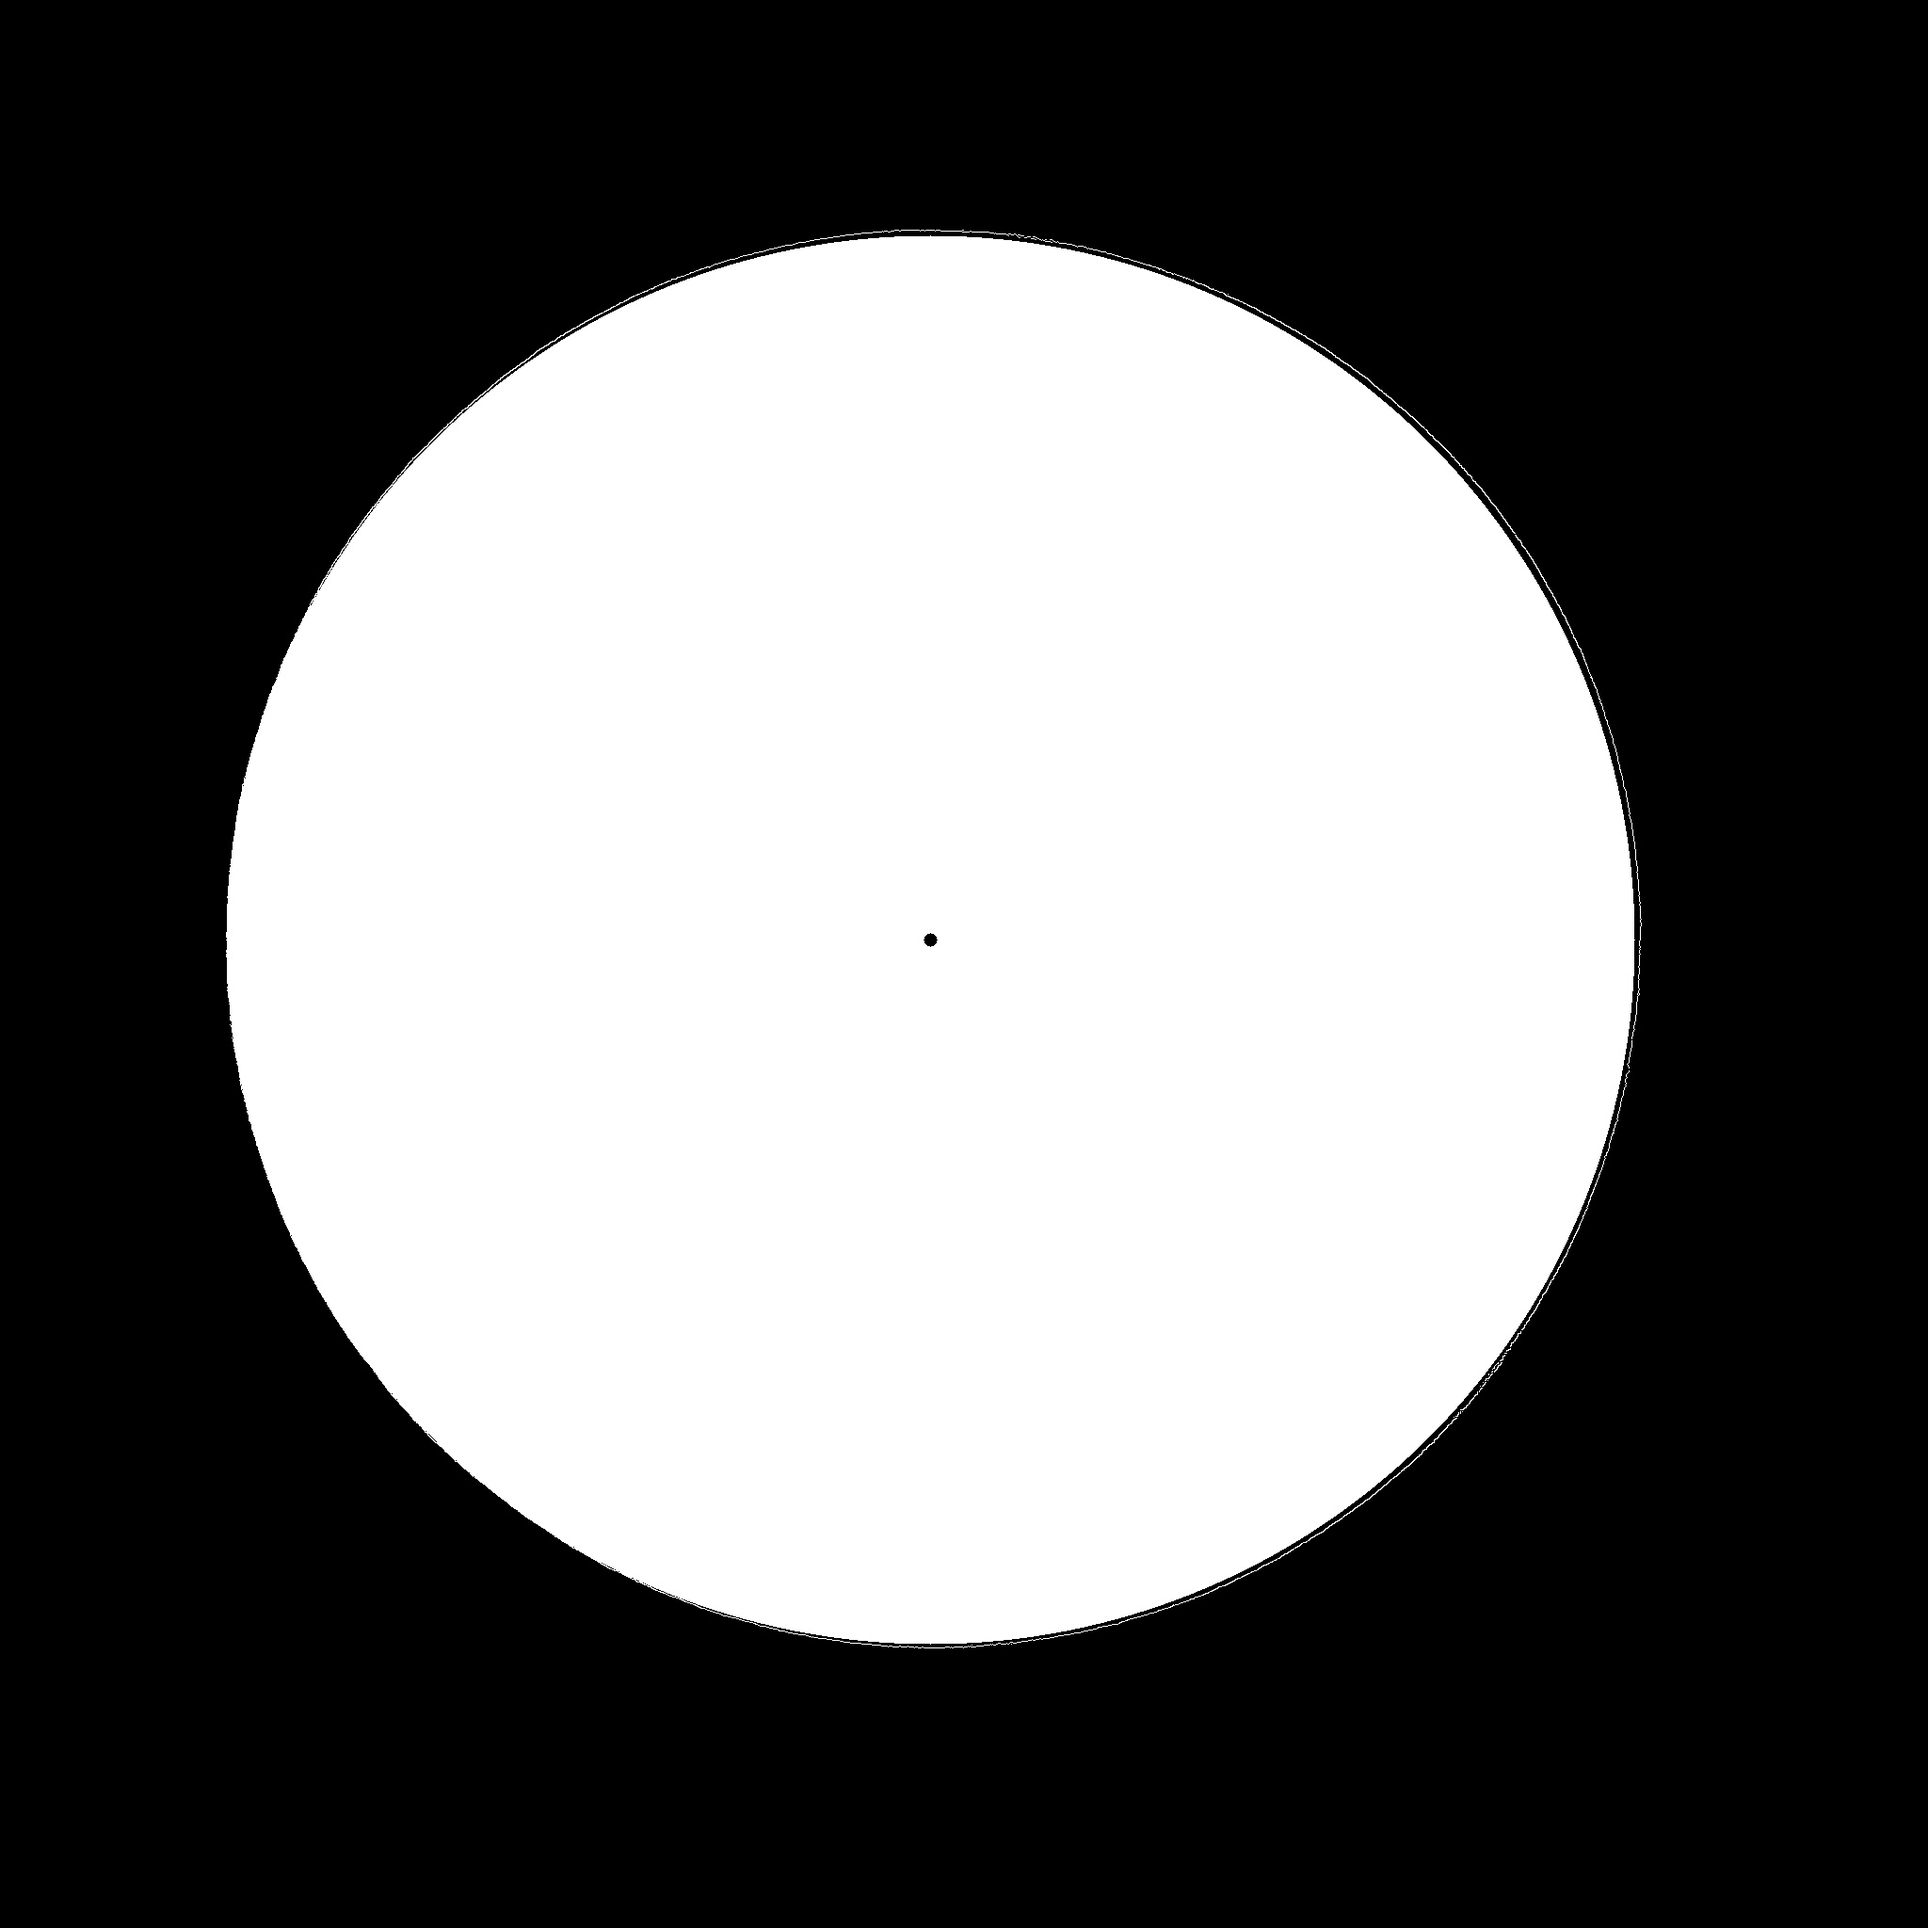
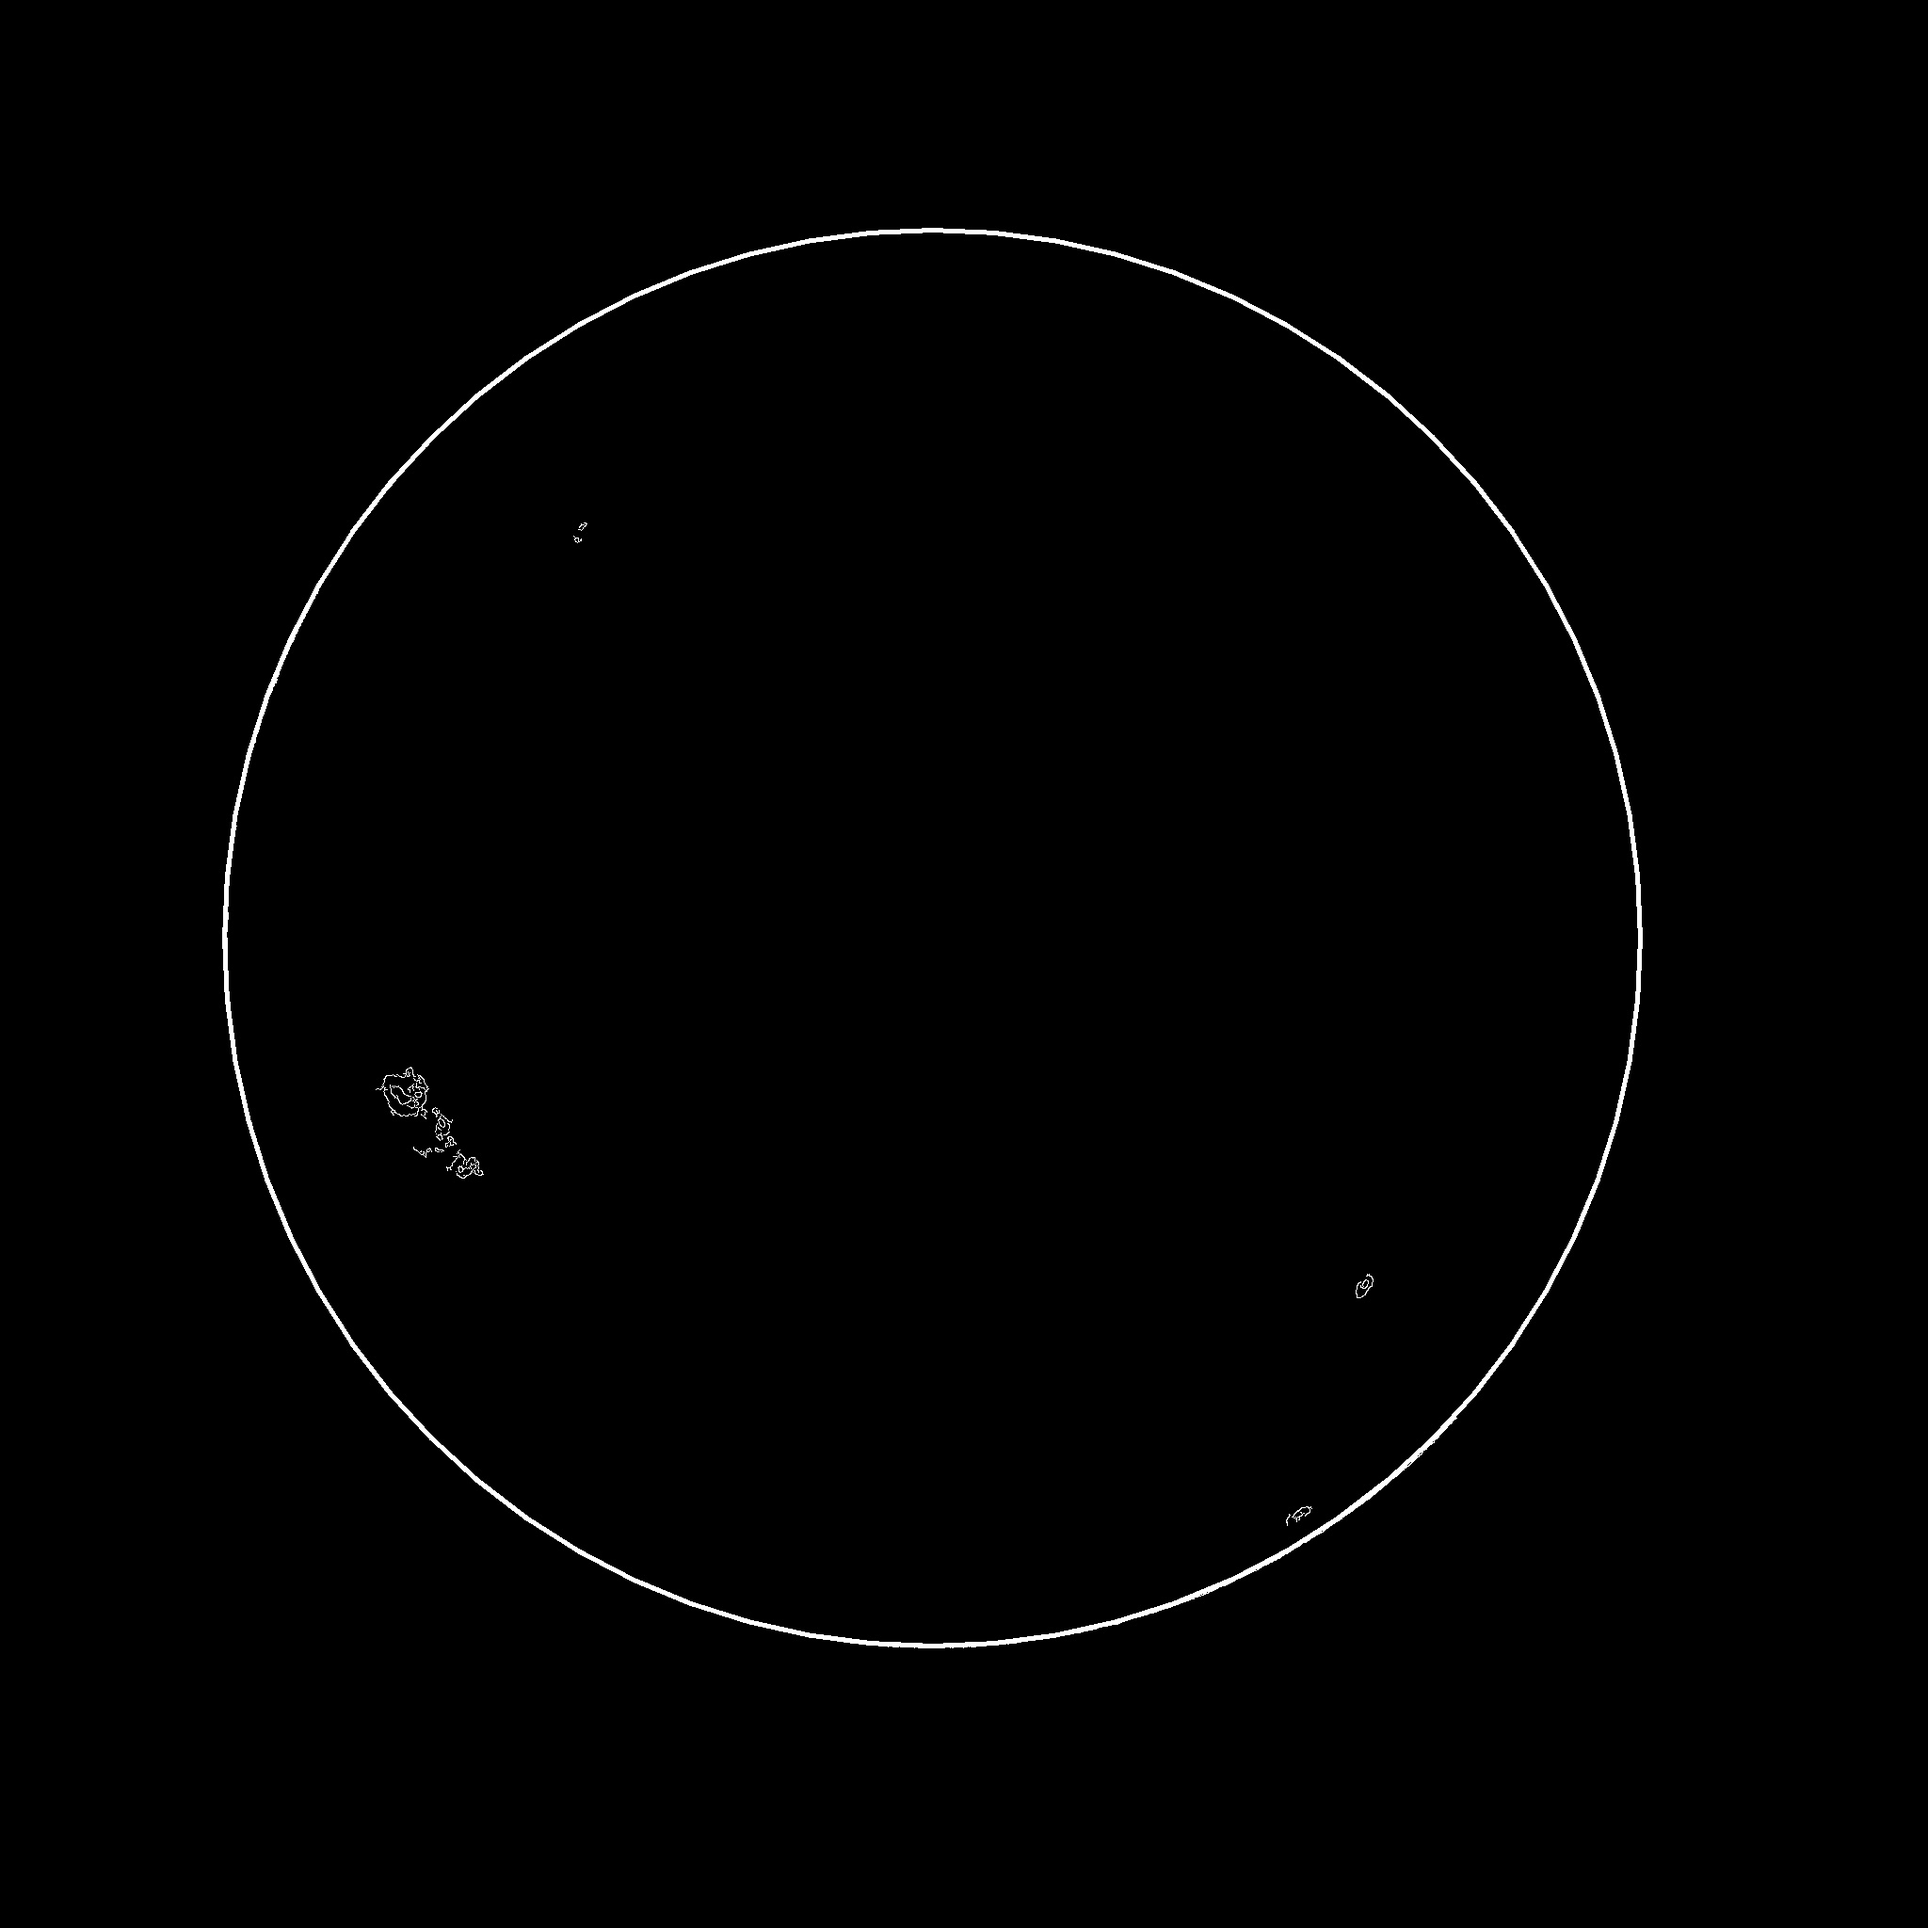
added all files

diff --git a/Desktop/PRL/PRL_Assignment.py b/Desktop/PRL/PRL_Assignment.py
@@ -14,43 +14,66 @@ img=(img-np.min(img))/((np.max(img)-np.min(img)))*255
 
 #Image is in floating point so converting it into the range of [0,255]
 img=np.uint8(img)
+cv2.imwrite("/users/devanshusharma/desktop/PRL/image2/real_image.jpg",img)
 img_shape=img.shape  #[2048,2048]
 # print(img_shape)
 # print(img)
 
 ##"OUR PROVIDED IMAGES DOESN'T CONTAIN THE NAN VALUES"##
-#Canny Edge detector for edge detection with the therehold values [45,85]
-boundary_img=cv2.Canny(img,45,85)
-cv2.imwrite("/users/devanshusharma/desktop/PRL/image2/boundary_image.jpg",boundary_img)
+#Canny Edge detector for edge detection with the therehold values [30,125]
+boundary_img=cv2.Canny(img,30,125)
+# cv2.imshow("boundary_image",boundary_img)
+# cv2.waitKey(0)
+
+
 
 #Since our image contain only the one Circle image of sun so using the HOUGH TRANSFORMATION on it
 #using gradient hough because where the intensity of pixcel is changin maximum can be considered as the edge or boundary
-det_circles= cv2.HoughCircles(img,cv2.HOUGH_GRADIENT,1,1000,param1=120,param2=50,minRadius=300,maxRadius=2000)
+det_circles= cv2.HoughCircles(img,cv2.HOUGH_GRADIENT,0.1,10,param1=60,param2=50,minRadius=100,maxRadius=2000)  #updated the parameter1=60 from 120
+
 
 
 #Again circle is in the float format so convertin them into the interger we get
-det_circles=np.uint16(np.around(det_circles))
+det_circles=np.int64(np.around(det_circles))
 # print(type(det_circles))  #checking type of the output- numpy array
-print(str.format("The [x_coor,y_coor,radius is] {}",det_circles[0][0]))
+print(str.format("The [x_coor,y_coor,radius] is {}",det_circles[0][0]))
 det_circles=det_circles[0][0]
 
 
 
 #Creatign the binary image with the sun detected
-binary_img=cv2.circle(boundary_img,det_circles[0:2],det_circles[2],(255),-1)
+binary_img=cv2.circle(boundary_img,det_circles[0:2],det_circles[2],(255),3)
 #highligting the centre
 binary_img=cv2.circle(binary_img,det_circles[0:2],7,(0),-1)
+# cv2.imshow("circle",binary_img)
+# cv2.waitKey(0)
 cv2.imwrite("/users/devanshusharma/desktop/PRL/image2/binary_image.jpg",binary_img)
 
 #highlighting the sun in real image
-img=cv2.circle(img,det_circles[0:2],det_circles[2],(255,255,255))
-img=cv2.circle(img,det_circles[0:2],7,(0),-1)
-cv2.imwrite("/users/devanshusharma/desktop/PRL/image2/detected_image.jpg",img)
-
-
-
-
-
-cv2.imshow("boundary image",img)
+img1=cv2.circle(img,det_circles[0:2],det_circles[2],(255,255,255))
+img1=cv2.circle(img,det_circles[0:2],7,(0),-1)
+cv2.imwrite("/users/devanshusharma/desktop/PRL/image2/limb_real_image.jpg",img1)
+cv2.imshow("limb_real_image",img1)
 cv2.waitKey(0)
+
+#removing the sun edges and just hightlight the sun spots
+spot_boundary_img=cv2.circle(boundary_img,det_circles[0:2],det_circles[2],(0),7)
+cv2.imwrite("/users/devanshusharma/desktop/PRL/image2/spot_boundary_image.jpg",spot_boundary_img)
+cv2.imshow("spot image",spot_boundary_img)
+cv2.waitKey(0)
+
+#countour filling in OpenCV only work in the closed loop to fill the gap betweent the edges we are dilating the boundaries
+dilated_img=cv2.dilate(spot_boundary_img,np.ones((2,2),np.uint8),iterations=3)
+
+
+#filling the space between the detected countour using teh retrival tree method of openCV
+cont,bin = cv2.findContours(dilated_img, cv2.RETR_EXTERNAL, cv2.CHAIN_APPROX_SIMPLE)
+cv2.drawContours(dilated_img,cont,-1,255,thickness=-1)
+cv2.imwrite("/users/devanshusharma/desktop/PRL/image2/sunspots.jpg",dilated_img)
+cv2.imshow("sunspot",dilated_img)
+cv2.waitKey(0)
+
+
+
 cv2.destroyAllWindows()
+
